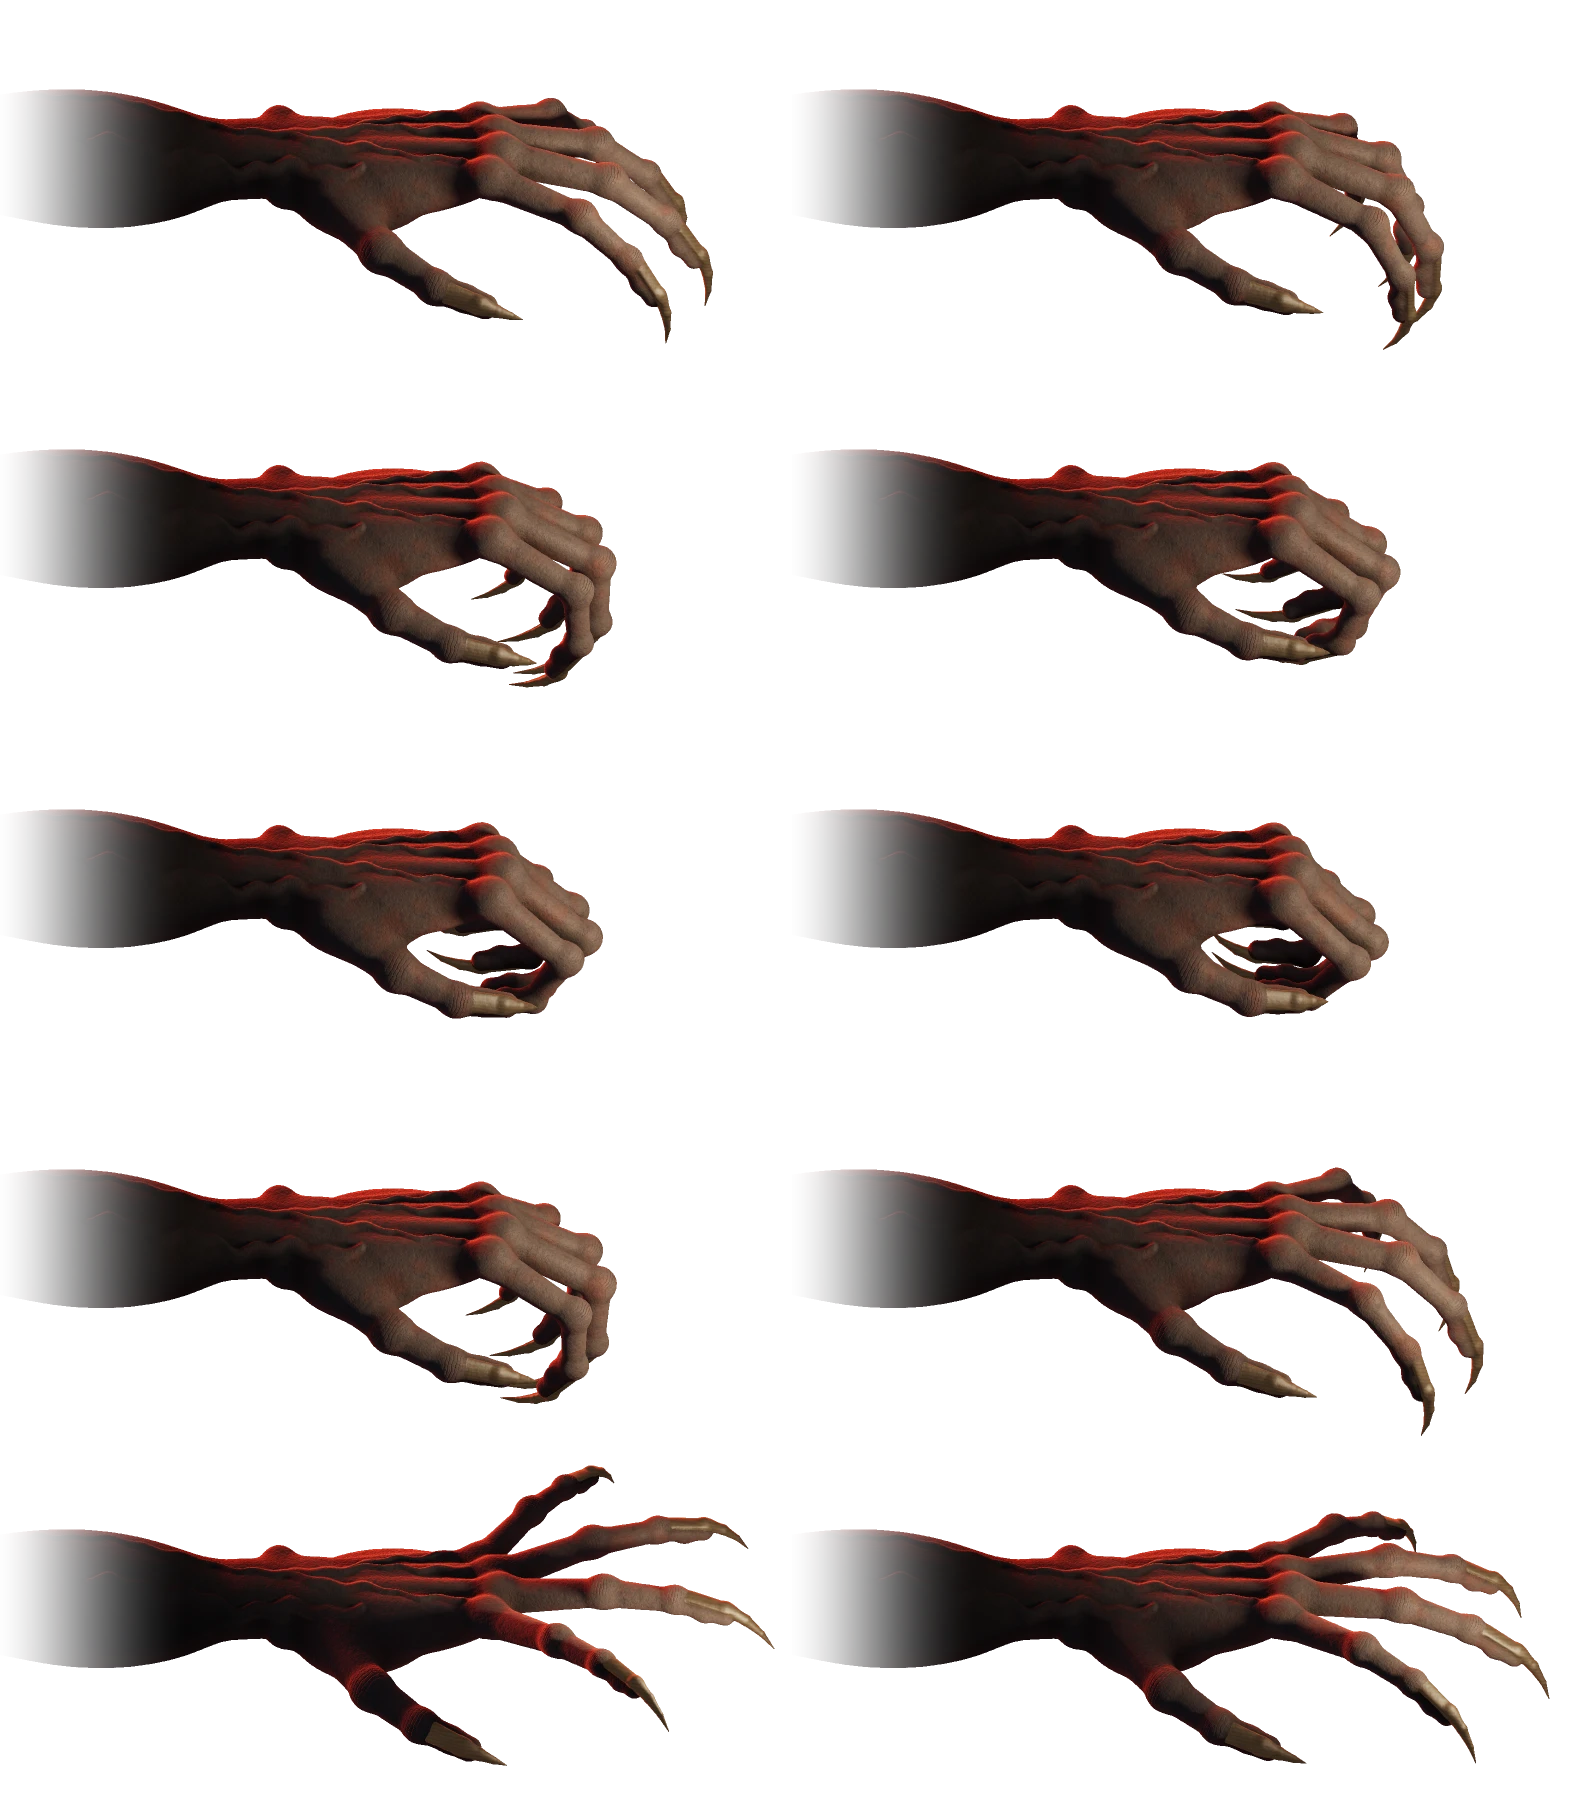
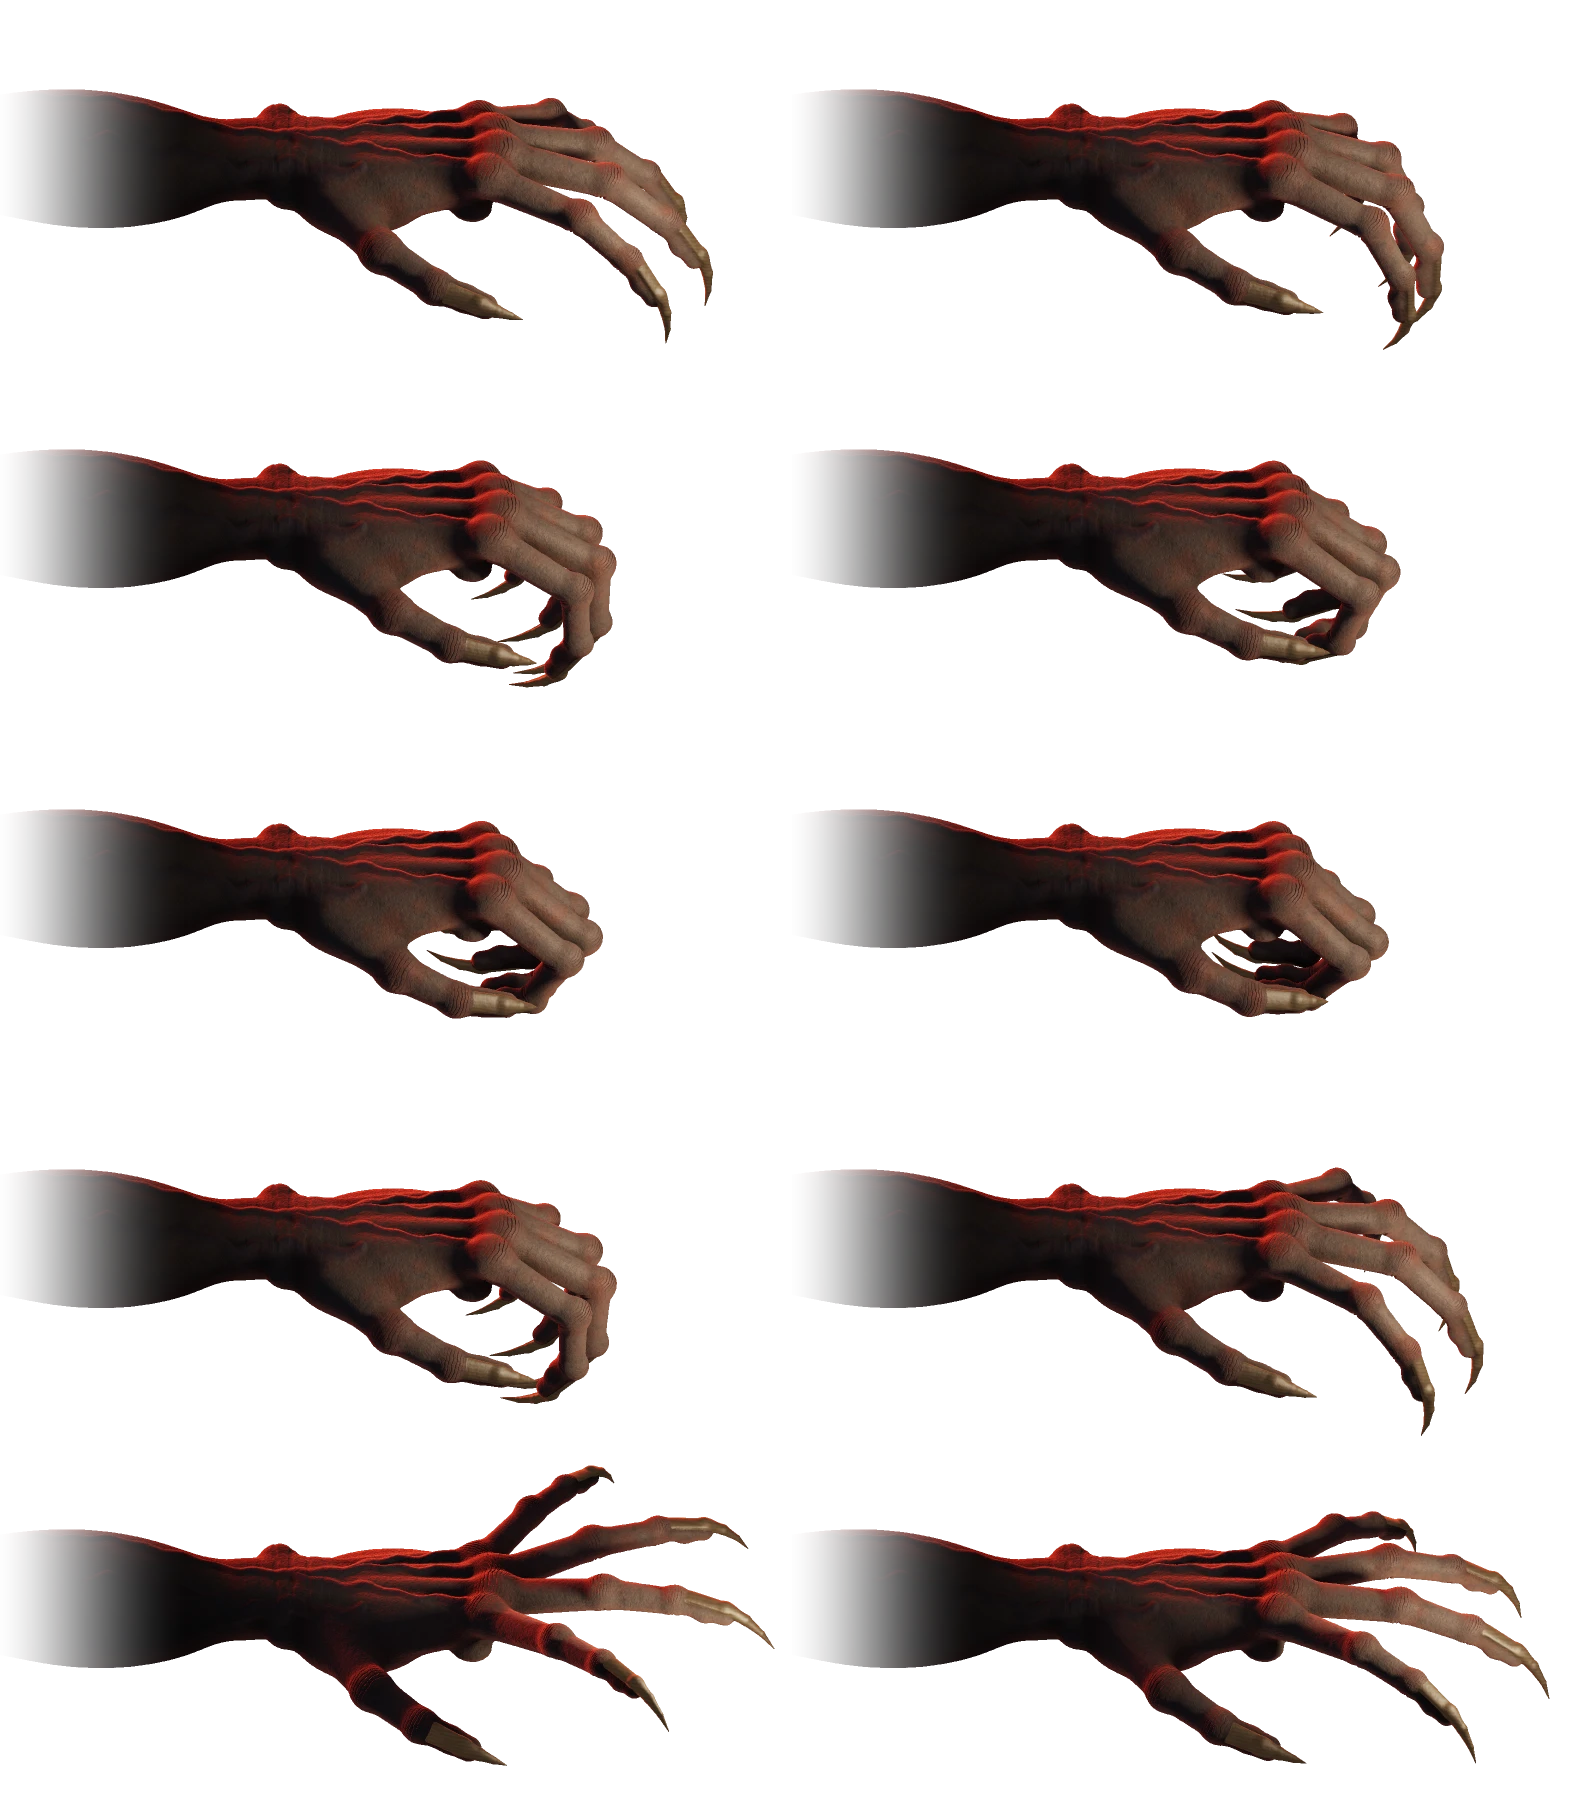
Dłoń: poduszki pod palcami wtopione w dłoń (bez kulki pod spodem w widoku z boku)
Claude-Session: https://claude.ai/code/session_015FHMkrNTMniwoQjGszEJ5b

diff --git a/alpha-0.2/scripts/dlon/model.html b/alpha-0.2/scripts/dlon/model.html
@@ -189,7 +189,7 @@ vec2 map(vec3 p) {
       dl = smin(dl, sdCapsule(p, M + u0 * 0.25 - vec3(0.3, 0.0, 0.0), Mn + un * 0.25 - vec3(0.3, 0.0, 0.0), r0 * 0.78), 0.7);
     }
     // etap 5b: poduszka pod stawem po stronie dłoniowej (wnętrze dłoni u nasady palców)
-    dl = smin(dl, sdEllipsoid(p - vec3(M.x - 0.95, -1.2, M.z * 0.95), vec3(1.05, 0.55, 1.0)), 0.9);
+    dl = smin(dl, sdEllipsoid(p - vec3(M.x - 0.95, -1.0, M.z * 0.92), vec3(1.05, 0.5, 0.95)), 1.2);
     // grzbiet: zmarszczki skóry nad kostką
     if (uDetal > 0.5) dl += zmarszczki(p, M + u0 * 0.36, normalize(uF[(i + 1) * 4 + 1] - M), u0, r0 * 1.1, 0.07);
   }
